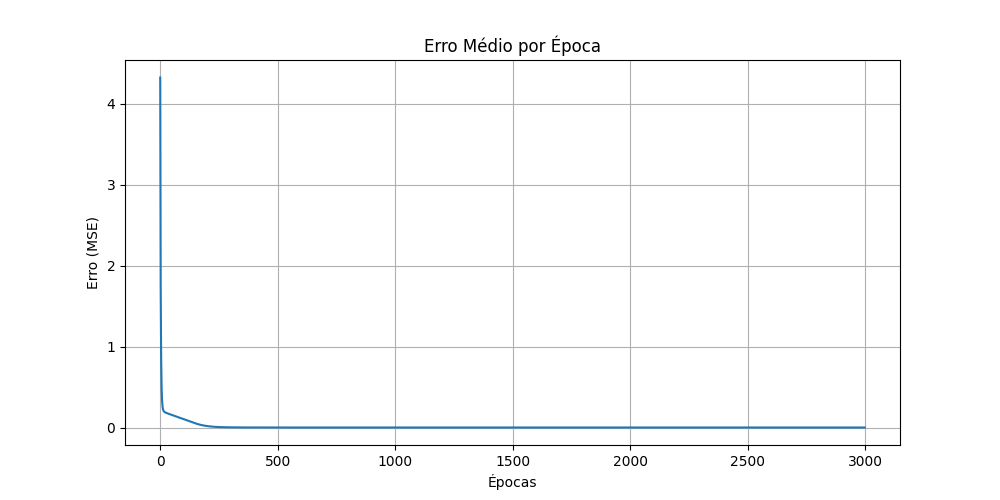
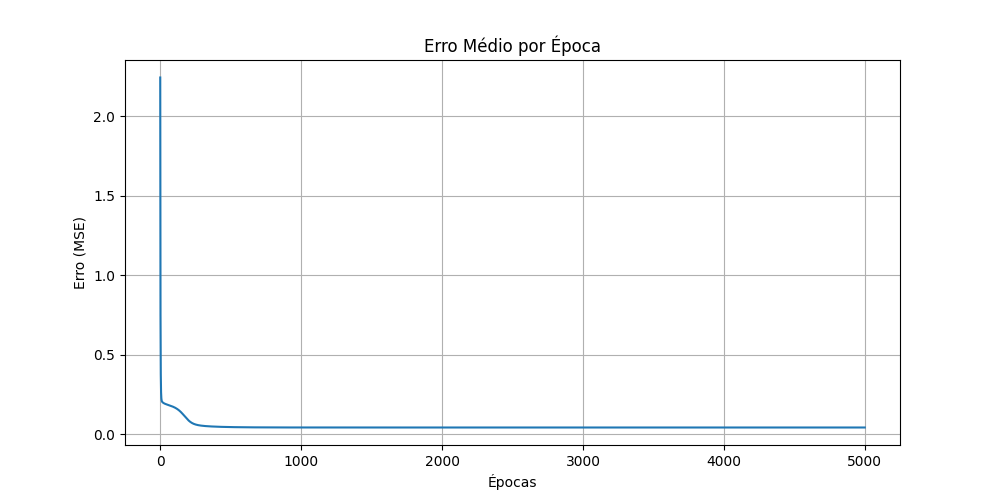
autoencoder

diff --git a/neural_network_study/3 - modularization/unsupervised/autoencoder/logic-autoencoder.py b/neural_network_study/3 - modularization/unsupervised/autoencoder/logic-autoencoder.py
@@ -5,12 +5,35 @@ import show_graphic as show_graphic
 import activation_functions as activation_functions
 
 def main():
-    # dataset simples de exemplo
-    X = np.eye(3)  # [ [1,0,0], [0,1,0], [0,0,1] ]
+    # --- 1. Frases de exemplo ---
+    sentences = [
+        "gato dorme",
+        "gato mia",
+        "carro anda",
+        "carro buzina",
+    ]
 
-    # arquitetura do autoencoder
-    # entrada 3 → escondida 2 → saída 3 (reconstrução)
-    network = neuralnet.build_network([3, 2, 3])
+    # --- 2. Vetorização simples (Bag of Words) ---
+    # Cria um vocabulário com todas as palavras únicas
+    vocab = sorted(set(" ".join(sentences).split()))
+    vocab_index = {word: i for i, word in enumerate(vocab)}
+
+    # Converte frases em vetores binários
+    def vectorize(sentence):
+        vec = np.zeros(len(vocab))
+        for word in sentence.split():
+            vec[vocab_index[word]] = 1
+        return vec
+
+    X = np.array([vectorize(s) for s in sentences])
+    print("Vocabulário:", vocab)
+    print("Entradas (vetores):\n", X)
+
+
+    # --- 3. Cria o autoencoder ---
+    # Exemplo: entrada N palavras → camada oculta 2 → saída N palavras
+    input_size = len(vocab)
+    network = neuralnet.build_network([input_size, 2, input_size])
 
     # camada de saída linear (sem restrição de faixa)
     output_layer = network[-1]
@@ -23,7 +46,7 @@ def main():
         network=network,
         input_value=X,
         output_value=X,
-        epochs=3000,
+        epochs=5000,
         learning_rate=0.05
     )
 
@@ -32,26 +55,32 @@ def main():
 
     print("Training done.\n")
 
-    # --- 4. Save the model ---
-    serialization.save_network_state(trained_net, filename="word_embedding_model")
 
-    # obtém o embedding (saída da camada intermediária)
+    # --- 6. Extrai os embeddings (camada escondida) ---
     print("\nEmbeddings aprendidos:")
+    embeddings = []
     for i, x in enumerate(X):
-        outputs = neuralnet.forward_pass(trained_net, x, return_all=True)
-        hidden = outputs[1]  # camada do meio (embedding)
-        print(f"Entrada {i}: {hidden}")
+        outputs = neuralnet.forward_pass(trained_net, x, return_all_layers=True)
+        # todo melhorar (camada intermediaria)
+        hidden = outputs[1]  # camada intermediária
+        embeddings.append(hidden)
+        print(f"{sentences[i]:<15} -> {hidden}")
 
-    # plota embeddings em 2D
-    words = ["cat", "dog", "car"]
-    embeddings = np.array([neuralnet.forward_pass(trained_net, x, return_all=True)[1] for x in X])
-    show_graphic.plot_embeddings(words, embeddings)
+    embeddings = np.array(embeddings)
+
+    # todo depois tentar fazer correlação não das sentensas e sim das palavras soltas
+    # --- 7. Mostra os embeddings em gráfico 2D ---
+    show_graphic.plot_embeddings(sentences, embeddings)
+
 
     # --- 7. Plot embeddings 3D ---
     print("Generating 3D embedding plots (rotated views)...")
     # Expand to 3D (add a dummy z-axis = 0)
     embeddings_3d = np.hstack([embeddings, np.zeros((embeddings.shape[0], 1))])
-    show_graphic.plot_embeddings_3d(words, embeddings_3d)
+    show_graphic.plot_embeddings_3d(sentences, embeddings_3d)
+
+    # --- 8. Salva o modelo (opcional) ---
+    serialization.save_network_state(trained_net, filename="text_autoencoder_model")
 
 
 if __name__ == "__main__":

diff --git a/neural_network_study/3 - modularization/unsupervised/autoencoder/neuralnet.py b/neural_network_study/3 - modularization/unsupervised/autoencoder/neuralnet.py
@@ -61,9 +61,10 @@ def build_network(layer_structure):
     return network
 
 ## PEQUENO AJUSTE EM FORWARD PASS
-def forward_pass(network, input_vector, return_all=False):
+def forward_pass(network, input_vector, return_all_layers=False):
     inputs = input_vector
-    all_outputs = [inputs]
+    all_activations = [inputs]  # guarda as ativações de cada camada
+
     for layer_index, layer in enumerate(network):
         layer_outputs = []
         for neuron in layer:
@@ -72,8 +73,12 @@ def forward_pass(network, input_vector, return_all=False):
             neuron["output"] = activation_response
             layer_outputs.append(neuron["output"])
         inputs = np.array(layer_outputs)
-        all_outputs.append(inputs)
-    return all_outputs if return_all else inputs
+        all_activations.append(inputs)
+
+    if return_all_layers:
+        return all_activations  # lista: [entrada, camada1, camada2, ...]
+    else:
+        return inputs  # só a saída final
 
 
 def calculate_layer_errors(network, layer_index, expected_output):
